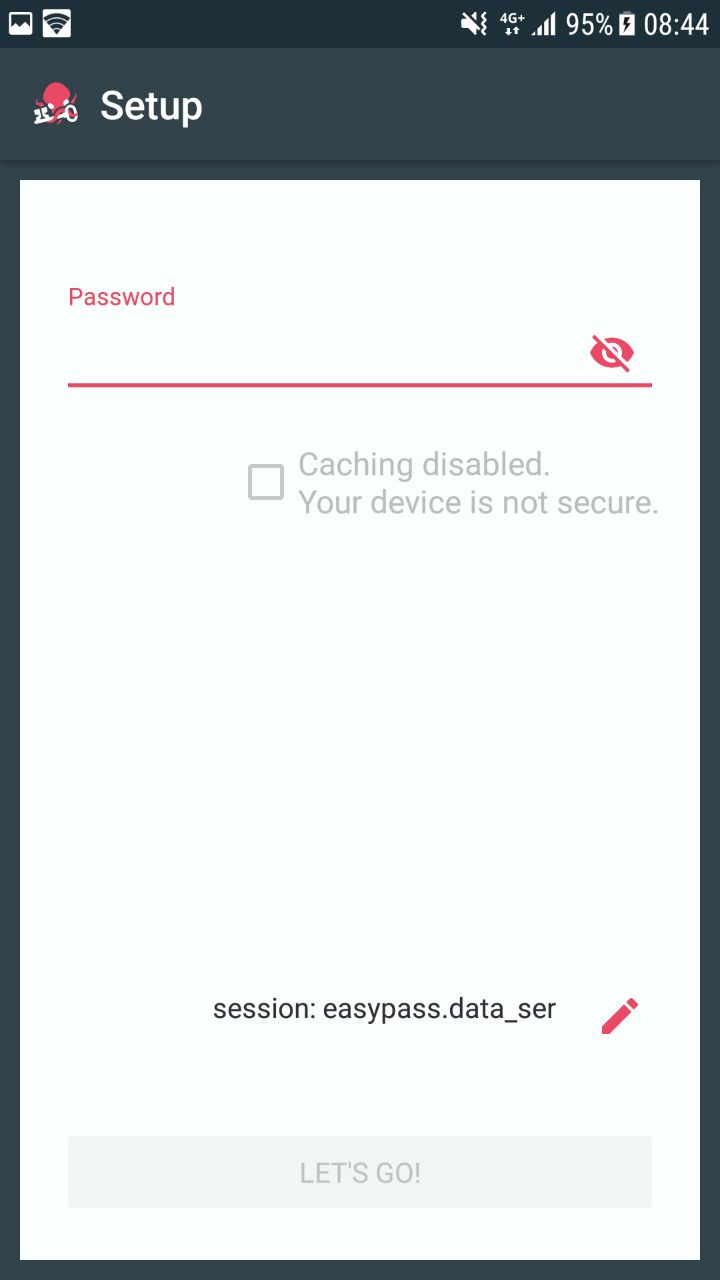
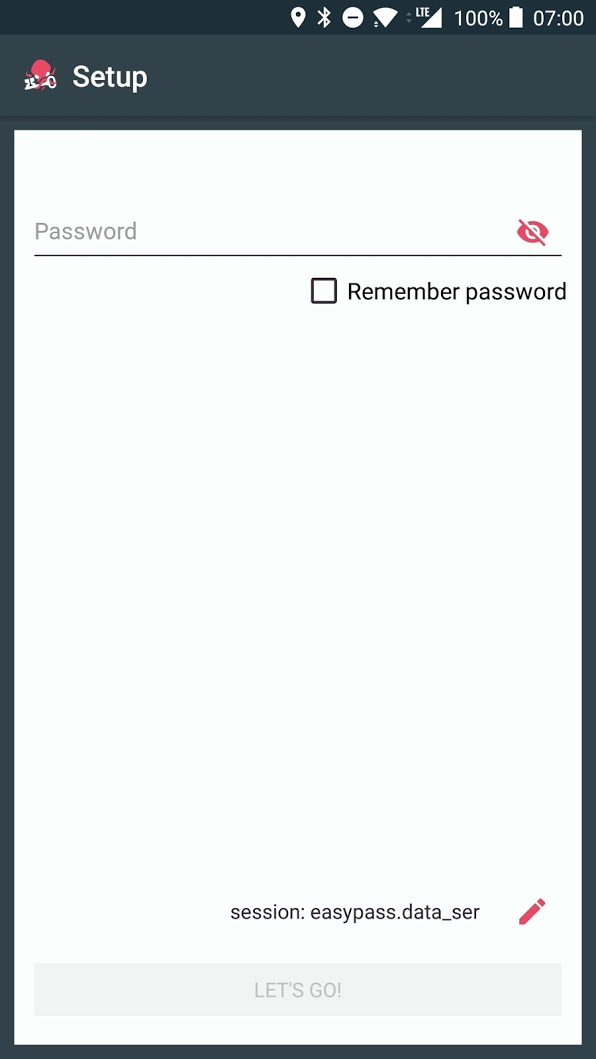
proof-read intro and presentation

diff --git a/parties/2-presentation.tex b/parties/2-presentation.tex
@@ -6,14 +6,20 @@
 Le but d'\easypass{} est de proposer un password manager indépendant de tout serveur externe ou outil particulier. Les mots de passe sont stockés dans un fichier au format JSON. Pour garantir la sécurité de ce dernier, celui-ci est chiffré à l'aide d'un mot de passe selon l'algorithme AES-128-CBC tel qu'implémenté par l'outil opensource OpenSSL. Il est donc possible d'éditer ou récupérer ses mots de passe à l'aide d'une ligne de commande quelconque. \\
 Les outils de la suite \easypass{} sont là pour offrir une couche \emph{user-friendly} à ce mécanisme de base. Ces outils se chargent de chiffrer/déchiffrer le fichier et d'en gérer le contenu (voir figure \ref{fig:schema-easypass}). 
 
-Puisque nous ne faisons que manipuler un fichier, ce dernier peut être synchronisé ou sauvegardé avec de nombreux outils: Google Drive, Dropbox, etc. Sur Android, nous avons rendu l'utilisation de Dropbox obligatoire, mais ce n'est pas le cas sur les versions desktop.
-Afin de rendre accessible le fichier depuis n'importe quel device, nous avons choisi de stocker le fichier sur Dropbox. 
+Puisque nous ne faisons que manipuler un fichier, ce dernier peut être synchronisé ou sauvegardé avec de nombreux outils: Google Drive, Dropbox, etc. Sur Android, nous avons rendu l'utilisation de Dropbox obligatoire, mais ce n'est pas le cas sur les versions desktop. La figure \ref{fig:schema-easypass} résume ce fonctionnement.
 
 \includeFigure{.8}{schema-easypass}{\easypass, architecture générale}
 
 \subsection{Algorithme de chiffrement}
 
-Le principe de \emph{password-based encryption} est de dériver une clé de chiffrement depuis un mot de passe fixe. La sécurité de cette méthode dépend alors de deux choses: a) la longueur du mot de passe, qui détermine également l'entropie de la clé générée, b) la PKDF (\emph{Password Key Derivation Function}), soit l'algorithme utilisé pour dériver une clé du mot de passe. Plus cette fonction prend du temps, plus une attaque brute-force deviendra difficile (manque de temps et de RAM).
+Les données sont chiffrées avec une clé symétrique de type AES 128 bits basée sur un \emph{master password}.
+
+Le principe de \emph{password-based encryption} est de dériver une clé de chiffrement depuis un mot de passe fixe. La sécurité de cette méthode dépend alors de deux choses: 
+\begin{itemize}
+    \item la longueur du mot de passe, qui détermine également l'entropie de la clé générée,
+    \item  la PKDF (\emph{Password Key Derivation Function}), soit l'algorithme utilisé pour dériver une clé du mot de passe.
+\end{itemize}
+Plus la fonction de dérivation prend du temps, plus une attaque brute-force deviendra difficile (manque de temps et de RAM).
 
 \easypass{} utilise un chiffrement qui correspond aux lignes de commande OpenSSL suivante\footnote{AES est notamment utilisé par le gouvernement américain pour chiffrer ses données top secrètes. Ils utilisent cependant la variante 256-bits. Nous utilisons encore 128-bits pour rester compatible avec les autres outils de la suite (mise à jour prévue).}:
 
@@ -36,9 +42,8 @@ Pour mieux comprendre les mécanismes derrière le chiffrement AES-CBC ainsi que
 
 \section{Application Android}
 
-fonctionnalités et captures aussi sur tablette !
-
-Au premier lancement de l'appliation, l'utilisateur doit configurer l'accès vers son compte dropbox voir Fig. \ref{fig:login-dropbox}. L'application peut en suite utiliser cet accès pour créer et sauver les sessions de l'utilisateur. Lors de la première utilisation de l'application, aucune session n'est trouvée voir Fig. \ref{fig:login-dropbox}. Par défaut, l'application mobile easypass propose à l'utilisateur de créer la session easypass.data\_ser. Elle sera chiffrée par le master password que l'utilisateur doit choisir à cet écran. La suite easypass permet à l'utilisateur de créer et de manipuler des sessions à travers d'autres outils. L'utilisateur peut choisir d'ouvrir un session  différente au même écran.
+Au premier lancement de l'application, une petite introduction présente les grands concepts d'\easypass{} (figure \ref{fig:intro}), puis l'utilisateur doit autoriser l'accès vers son compte Dropbox (figure \ref{fig:login-dropbox}).\\ 
+Par défaut, l'application ouvre la session \code{easypass.data\_ser}. Si ce fichier n'existe pas, l'application mobile propose à l'utilisateur de le créer en choisissant le \emph{master password} à utiliser (figure \ref{fig:choose-master-password-withkeyboard}). Ce dernier doit être de minimum trois charactères, mais le plus long est le mieux. À noter qu'il est aussi possible d'ouvrir ou de créer une session différente depuis ce même écran en appuyant sur le bouton d'édition en bas à droite du nom de session courant. Dans ce cas, l'application revient à l'écran de chargement et la nouvelle session devient automatiquement la session par défaut.
 
 \begin{center}
 	\begin{minipage}{.3\textwidth}
@@ -48,11 +53,11 @@ Au premier lancement de l'appliation, l'utilisateur doit configurer l'accès ver
 		\includeFigure{1}{login-dropbox}{} % Choisir un compte Dropbox.
 	\end{minipage}
 	\begin{minipage}{.3\textwidth}
-		\includeFigure{1}{choose-master-password}{} % Créer la session TODO mettre le nom de la session et le Master Password qui la chiffrera.
+		\includeFigure{1}{choose-master-password-withkeyboard}{} % Créer la session TODO mettre le nom de la session et le Master Password qui la chiffrera.
 	\end{minipage}        
 \end{center}
 
-A présent, si l'application est relancée, le master password est demandé afin de déchiffrer la session voir Fig. \ref{fig:login}. Le master password doit être compliqué afin de garantir la sécurité de l'application. Afin que l'utilisateur n'ait pas besoin de le rentrer à chaque utilisation, il est possible de le mettre en cache en cochant la case remember. L'utilisateur peut utiliser les méthodes d'authentifications fournies par Android (modèle, empreinte, etc). L'utilisateur peut choisir d'ouvrir une session différente. 
+A présent, si l'application est relancée (et que la session existe toujours), le \emph{master password} est demandé afin de déchiffrer le fichier (figure \ref{fig:login}). Le master password doit être compliqué afin de garantir la sécurité de l'application. Afin que l'utilisateur n'ait pas besoin de le rentrer à chaque utilisation, il est possible de le mettre en cache en cochant la case \emph{remember} (figure \ref{fig:login}). L'utilisateur pourra alors utiliser les méthodes d'authentifications fournies par Android (\emph{pattern}, empreinte, etc) à la place du mot de passe. À noter que cette option n'est disponible que sur un téléphone sécurisé: si le téléphone peut être déverouillé sans authentification (\emph{swipe}, \emph{slide up}, etc.), la case à cocher est désactivée (figure \ref{fig:login-no-remember}).
 
 \begin{center}
 	\begin{minipage}{.3\textwidth}
@@ -60,10 +65,13 @@ A présent, si l'application est relancée, le master password est demandé afin
 	\end{minipage}
 	\begin{minipage}{.3\textwidth}
 		\includeFigure{1}{login}{} % Ouvre la session TODO mettre le nom de la session (ou une autre session selectionée par l'utilisateur) à l'aide du Master Password.
+    \end{minipage}  
+    \begin{minipage}{.3\textwidth}
+		\includeFigure{1}{login-no-remember}{} % Ouvre la session TODO mettre le nom de la session (ou une autre session selectionée par l'utilisateur) à l'aide du Master Password.
 	\end{minipage}        
 \end{center}
 
-L'écran principal de l'application affiche la liste de tous les comptes de l'utilisateur voir Fig. \ref{fig:liste}. Ils sont répertoriés par un Nom unique. L'utilisateur peut ajouter un nouveau compte grâce au bouton flottant.Différentes informations peuvent être spécifiées au moment de la création du compte ainsi que le mot de passe. L'application \easypass{} propose également de générer un password aléatoire selon différents critères. 
+L'écran principal de l'application affiche la liste de tous les comptes de l'utilisateur (figure \ref{fig:liste}). Ils sont répertoriés par un nom unique. L'utilisateur peut ajouter un nouveau compte grâce au bouton flottant (\emph{fab}). Différentes informations peuvent être spécifiées au moment de la création du compte ainsi que le mot de passe. L'application \easypass{} propose également de générer un password aléatoire selon différents critères. 
 
 \begin{center}
 	\begin{minipage}{.3\textwidth}
@@ -77,7 +85,11 @@ L'écran principal de l'application affiche la liste de tous les comptes de l'ut
 	\end{minipage}        
 \end{center}
 
-La compte créé apparaît maintenant dans la liste des comptes voir Fig. \ref{fig:liste}. Lorsque l'utilisateur sélectionne un compte de la liste un pannel propose différentes actions. Différents raccourcis permettent à l'utilisateur de copier les informations principales du compte sans l'ouvrir (Password, Username, Email) voir Fig. \ref{fig:liste-edition}. Un autre raccourcis permet d'afficher le mot de passe sauvé et de le copier voir Fig. \ref{fig:password-shortcut}. 
+La compte créé apparaît maintenant dans la liste des comptes (figure \ref{fig:liste}). 
+
+Lorsque l'utilisateur clique sur un compte de la liste, un pannel propose différentes actions (figure \ref{fig:liste-edition}). Des raccourcis permettent à l'utilisateur de copier les informations principales du compte sans l'ouvrir (Password, Username, Email). Un autre raccourcis permet d'afficher le mot de passe sauvé (figure \ref{fig:password-shortcut}). 
+
+Depuis ce pannel, l'utilisateur peut accéder à un nouvel écran et voir ou éditer les détails du compte sélectionné. Il est également possible d'afficher les détails du compte en cliquant longtemps sur un compte de la liste.
 
 \begin{center}
 	\begin{minipage}{.3\textwidth}
@@ -91,7 +103,7 @@ La compte créé apparaît maintenant dans la liste des comptes voir Fig. \ref{f
 	\end{minipage}        
 \end{center}
 
-Depuis ce pannel, l'utilisateur peut accéder à un nouvel écran et voir ou éditer les détails du compte sélectionné. Il est également possible d'afficher les détails du compte avec en cliquant longtemps sur un compte de la liste.
+
 
 \begin{center}
 	\begin{minipage}{.3\textwidth}
@@ -102,7 +114,7 @@ Depuis ce pannel, l'utilisateur peut accéder à un nouvel écran et voir ou éd
 	\end{minipage}        
 \end{center}
 
-Finalement l'utilisateur peut encore supprimer un compte depuis la liste principale. En faisant glisser le compte sur la gauche voir Fig. \ref{fig:delete}. Si un compte est supprimé ou modifié, il est possible de revenir en arrière en cliquant sur le bouton Undo voir Fig. \ref{fig:undo}.
+Finalement l'utilisateur peut encore supprimer un compte depuis la liste principale en faisant glisser le compte sur la gauche (figure \ref{fig:delete}). Si un compte est supprimé ou modifié, il est possible de revenir en arrière en cliquant sur le bouton Undo affiché sur la snackbar qui apparait en-bas de l'écran (figure \ref{fig:undo}).
 
 \begin{center}
 	\begin{minipage}{.3\textwidth}
@@ -113,7 +125,9 @@ Finalement l'utilisateur peut encore supprimer un compte depuis la liste princip
 	\end{minipage}        
 \end{center}
 
-L'utilisateur peut modifier l'affichage de la liste principale pour trouver plus rapidement les comptes qu'ils cherchent. La liste principale peut être triée par nom ou date de création voir Fig. \ref{fig:tri}. Une fonction de recherche est également proposée pour retrouver un compte par son nom, son username ou son email voir Fig. \ref{fig:search}. L'utilisateur peut choisir ses comptes favoris. Ils apparaîtront en haut de la liste. Les comptes favoris sont sauvés dans la session.
+L'utilisateur peut modifier l'affichage de la liste principale pour trouver plus rapidement les comptes qu'il cherche. La liste principale peut être triée par nom ou date de création (figure \ref{fig:tri}). Une fonction de recherche est également proposée pour retrouver un compte par un mot-clé (figure \ref{fig:search}). La recherche est effectuée dans tous les champs sauf le mot de passe. 
+
+L'utilisateur peut également marquer des comptes comme favoris (\emph{pinning}). Ils apparaîtront alors systématiquement en haut de la liste. Les comptes favoris sont sauvés dans la session.
 
 \begin{center}
 	\begin{minipage}{.3\textwidth}
@@ -124,7 +138,7 @@ L'utilisateur peut modifier l'affichage de la liste principale pour trouver plus
 	\end{minipage}
 \end{center}
 
-La session ouverte dans l'application est toujours synchronisée avec Dropbox. Dans le cas où le téléphone n'a plus accès à internet, une copie de la session est conservée en locale avec la dernière synchronisation. L'écran d'accueil propose de charger le fichier local voir Fig. \ref{fig:local-file}. Une icône rouge indique que l'application n'est pas connectée à internet voir Fig. \ref{fig:no-network}. L'application peut ainsi afficher les comptes mais sans les éditer voir Fig. \ref{fig:edition-disabled}.
+La session ouverte dans l'application est toujours synchronisée avec Dropbox. Dans le cas où le téléphone n'a plus accès à internet, une copie de la session est conservée en local avec la dernière synchronisation. L'écran d'accueil propose de charger le fichier local (figure \ref{fig:local-file}). Une icône rouge indique que l'application n'est pas connectée à internet (figure \ref{fig:no-network}). L'application peut ainsi afficher les comptes mais sans les éditer (figure \ref{fig:edition-disabled}). 
 
 \begin{center}
 	\begin{minipage}{.3\textwidth}
@@ -140,9 +154,18 @@ La session ouverte dans l'application est toujours synchronisée avec Dropbox. D
 
 La suite \easypass{} permet de manipuler la session à travers plusieurs applications (Application Java, Ligne de commande, Application mobile). Dans le cas où la session serait modifiée par un autre programme. L'utilisateur peut forcer la synchronisation afin de récupérer les dernières modifications. Cette action est possible grâce au bouton sync voir Fig. \ref{fig:sync}.
 
-\includeFigure{.3}{sync}{} % Force la synchronisation de la session locale avec la session sauvée sur Dropbox.
+\begin{center}
+    \begin{minipage}{.3\textwidth}
+        \includeFigure{1}{sync}{} % Sync button quand réseau à nouveau up
+    \end{minipage}        
+	\begin{minipage}{.3\textwidth}
+		\includeFigure{1}{auto-sync}{} % Force la synchronisation de la session locale avec la session sauvée sur Dropbox.
+	\end{minipage}
+\end{center}
 
-Les paramètres généraux de l'application peuvent être atteint depuis l'écran principale de l'application  voir Fig. \ref{fig:settings}. 
+Si le téléphone n'a pas de connectivité et que le réseau revient \easypass{} vérifie automatiquement que la session affichée est toujours à jour. Dans le cas contraire, un bouton apparait proposant à l'utilisateur de recharger la session avec la dernière version (figure \ref{fig:auto-sync}).
+
+Les paramètres généraux de l'application peuvent être atteint depuis l'écran principale de l'application  (figure \ref{fig:settings}). 
 
 \begin{center}
 	\begin{minipage}{.3\textwidth}
@@ -158,13 +181,23 @@ Les paramètres généraux de l'application peuvent être atteint depuis l'écra
 
 Parmis les actions possibles, l'utilisateur peut :
 \begin{itemize}
-	\item Personnaliser la liste de caractères spéciaux utilisés lors de la génération du mot de passe voir Fig. \ref{fig:custom-liste}.
-	\item Modifier le master password de la session chargée  Fig. \ref{fig:new-password}.
-	\item Retirer le master password du cache.
-	\item Ouvrir l'application à nouveau avec une autre session.
-	\item Oublier l'accès au compte Dropbox de l'utilisateur.
-	\item Effacer le cache de l'application. Notamment la session local utilisé pour faire fonctionner l'application quand le téléphone n'a pas accès au réseau.
+	\item Personnaliser la liste de caractères spéciaux utilisés lors de la génération du mot de passe (figure \ref{fig:custom-liste});
+	\item Modifier le \emph{master password} de la session chargée (figure \ref{fig:new-password});
+	\item Retirer le \emph{master password} du cache;
+	\item Ouvrir l'application à nouveau avec une autre session;
+	\item Oublier l'accès au compte Dropbox de l'utilisateur;
+	\item Effacer le cache de l'application, notamment la session locale utilisé pour faire fonctionner l'application quand le téléphone n'a pas accès au réseau.
 \end{itemize}
+
+L'application est sécurisée: il n'est pas possible de faire de captures d'écran ou de prévisualiser le contenu de l'application dans la liste des applications récentes (\emph{recents}).
+
+
+Finalement, l'application est également adaptée pour tablettes en mode paysage: la liste principale ainsi que les écrans de détail/éditions sont affichés côte-à-côte, en mode \emph{two panes} (figure \ref{fig:tablet-list}); les écrans de démarrage et de paramètres ont une largeur limitée (figure \ref{fig:tablet-setup}). Le comportement de l'application est le même, excepté une chose: en mode paysage, le panel de raccourcis n'est pas disponible; pour copier une information ou voir le mot de passe, il faut utiliser les fonctions \emph{built-in} d'Android.
+
+
+\includeFigure{.8}{tablet-setup}{} % tablette
+\includeFigure{.8}{tablet-list}{} % tablette
+
 
 % exemple de référence
 % blabla (see Figure \ref{fig:login}) blabla.

diff --git a/parties/3-implementation.tex b/parties/3-implementation.tex
@@ -5,7 +5,7 @@ L'application \easypass{} fut développée en Kotlin (version 1.1.60).
 
 \section{Composants et structure du projet}
 
-L'application est composée de six activités (voir figure \ref{fig:app-structure}). Les deux activités principales sont l'activité présentant la liste des comptes (\code{AccountListActivity}) et l'activité (\code{AccountDetailActivity}) permettant de manipuler un compte (pas utilisée sur tablette). 
+L'application est composée de six activités (voir figure \ref{fig:app-structure}). Les deux activités principales sont l'activité présentant la liste des comptes (\code{AccountListActivity}) et l'activité permettant de manipuler un compte (\code{AccountDetailActivity}, pas utilisée sur tablette). 
 % Sur tablette, \code{AccountListActivity} comprend les fragments de manipulation d'un compte (\emph{two panes}, \code{AccountDetailActivity} n'est pas utilisé).
 
 Nous avons utilisé des fragments dans deux cas: a) dans la \code{LoadingSessionActivity}, où chaque fragment représente une vue dans un \emph{wizard}, b) dans les vues principales afin de pouvoir créer une interface \emph{two-panes} sur tablette.
@@ -342,13 +342,13 @@ Preferences().revision = null
 
 \paragraph*{lazyness} Le client Dropbox dans \code{DbxManager} est défini comme \emph{lazy}. Cela permet de l'instancier uniquement lors du premier usage:
 
-\begin{kotlincode}
+\begin{minted}{kotlin}
 val client: DbxClientV2 by lazy {
     val token = Preferences(App.appContext).dbxAccessToken
     val config = DbxRequestConfig.newBuilder("Easypass/2.0").build()
     DbxClientV2(config, token)
 }
-\end{kotlincode}
+\end{minted}
 
 %\subsection{Timber}
 
@@ -370,7 +370,7 @@ Les styles et couleurs en Android peuvent se gérer un peu à la manière du CSS
 
 \paragraph*{Couleurs} Les couleurs principales (notamment \code{colorPrimary}, \code{colorPrimaryDark} et \code{colorAccent}) sont définies dans le style principal. Il est aussi possible de changer la couleur du texte et du background, ainsi que les effets \emph{ripple}. Pour certains attributs, il est nécessaire de préfixer le nom de l'item par \code{android:} pour que cela soit pris en compte.
 
-\begin{xmlcode}
+\begin{minted}{xml}
 <style name="AppTheme" parent="Theme.AppCompat.Light.DarkActionBar">
     <!-- Main colors -->
     <item name="colorPrimary">@color/colorDarkGrey</item>
@@ -385,19 +385,71 @@ Les styles et couleurs en Android peuvent se gérer un peu à la manière du CSS
 
     <!-- ... etc. ... -->
 </style>
+\end{minted}
+
+\paragraph*{Références} Pour se référer à une couleur depuis un layout, nous avons systématiquement utilisé une référence. Une référence est déclarée avec la syntaxe \code{?attr} ou \code{?android:attr} (selon qui l'a définie) et permet notamment d'éviter de noter en dur des couleurs. L'avantage est que nous pouvons à tout moment décider de changer les couleurs principales dans le fichier \code{style} et toutes les interfaces seront mises à jour automatiquement.
+
+\paragraph*{Difficultés} Modifier le style peut avoir des effets indésirables, comme \emph{écraser} des comportements par défaut. Il faut alors un certain temps avant de trouver le moyen de le rétablir. 
+
+Par exemple, nous avons utilisé des lignes en gradient à plusieurs endroits de l'application. Il n'y a pas de moyen simple de créer une bordure en Android, il faut créer une \emph{shape} en xml qui peut ensuite être utilisée en fond\footnote{Voir \code{res/drawable/bottom\_border\_gradient.xml}}. Cependant, lorsqu'on ajoute un fond à un élément interactif (boutons, etc.), on \guillemets{écrase} l'effet \emph{ripple}. La solution est de réappliquer l'effet \emph{ripple} au \emph{foreground}:
+
+\begin{xmlcode}
+<Button 
+    android:background="@drawable/bottom_border_gradient"
+    android:foreground="?android:attr/selectableItemBackgroundBorderless" />
 \end{xmlcode}
 
-\paragraph*{Références} Pour se référer à une couleur depuis un layout, nous avons systématiquement utilisé une référence. Une référence est déclarée avec la syntaxe \code{?attr} ou \code{?android:attr} et permet notamment d'éviter de noter en dur des couleurs. L'avantage est que nous pouvons à tout moment décider de changer les couleurs principales dans le fichier \code{style} et toutes les interfaces seront mises à jour automatiquement.
+Un autre exemple est lorsqu'on veut changer la couleur d'un bouton ayant le style \code{Widget.AppCompat .Button.Borderless.Colored}. Cela modifie la couleur du bouton dans tous ses états; il n'est donc plus grisé quand \code{enabled=false}. La solution est de spécifier la couleur du texte dans un xml qui prend en compte l'état du bouton\footnote{On parle alors de \emph{state selector}, voir notamment \code{res/color/btn\_text\_color.xml}.}.
 
 \section{Autre}
 
-\subsection{BottomSheet}
 
-\subsection{SwipeToDelete}
+\subsection{Librairies}
+
+Outre les librairies citées dans les sections précédantes, nous avons utilisé \emph{AppIntro} et \emph{Timber}.
+
+\emph{AppIntro}\footnote{\url{https://github.com/apl-devs/AppIntro}} permet de créer très facilement des slides d'introduction suivant le thème Material Design. 
+
+\emph{Timber}\footnote{\url{https://github.com/JakeWharton/timber}.} est une librairie de logging très légère qui est à la fois extensible et très modulable. Son premier avantage est qu'il n'est pas nécessaire de lui passer un \code{TAG}; elle utilise par défaut le nom de la classe. Sans entrer dans les détails, nous avons configuré \emph{timber} (voir \code{App\#onCreate}) afin de ne loguer qu'en mode \emph{debug} et d'ajouter un string unique (\emph{lucy}) et le numéro de ligne dans le \emph{tag}. 
+
+\begin{kotlincode}
+if (BuildConfig.DEBUG) {
+    Timber.plant(object : DebugTree() {
+        override fun createStackElementTag(element: StackTraceElement): String? =
+
+        "lucy:${super.createStackElementTag(element)}:${element.lineNumber}"
+    })
+    Timber.v("initialised Timber in debug mode")
+}
+\end{kotlincode}    
 
 \subsection{Support tablette}
 
-\subsection{Slides d'introduction}
+Nous avons fait en sorte que l'application soit utilisable sur tablette selon le principe du \emph{split pane}. Pour cela, l'édition et la visualisation des détails sont gérés par des fragments ajoutés soit à l'activité principale (\code{AccountListActivity}, mode tablette), soit à une activité dédiée (\code{AccountDetailActivity}, mode smartphone). 
+
+En mode tablette, les \emph{bottom sheet} ne sont pas très agréables. Nous avons donc ajouté des boutons pour les actions principales et supprimé complètement les \emph{quick actions}: pour copier une information, il est nécessaire de sélectionner le texte désiré. 
+
+Certains écrans, notamment l'écran de \emph{setup} et l'écran des \emph{settings}, ne sont pas très jolis en plein écran. Pour limiter la largeur d'un élément de layout, nous avons utilisé les styles\footnote{\code{ConstraintLayout} permettrait de faire la même chose plus simplement, mais nos containers sont déclarés dans un \code{CoordinatorLayout} afin de gérer l'appBar et le fab...}. Le fichier style par défaut déclare un style \code{LayoutMaxWidth} qui définit un \code{layout\_width} de la taille du parent, tandis que le fichier style dédié aux devices d'une largeur de 900dp ou plus limite la largeur à 500dp:
+
+\begin{xmlcode}
+<!-- in res/values/styles.xml -->
+<style name="LayoutWithMaxWidth">
+    <item name="android:layout_width">match_parent</item>
+</style>
+
+<!-- in res/values-w900dp/styles.xml -->
+<style name="LayoutWithMaxWidth">
+    <item name="android:layout_width">500dp</item>
+</style>
+\end{xmlcode}
+
+Il suffit alors d'appliquer ce style à un container pour que sa largeur soit limitée sur tablette.
+
+\subsection{Animation des listes}
+
+
+%\subsection{SwipeToDelete}
+
 % \paragraph*{Autre} Pour appliquer un style particulier à un élément du layout, on peut utiliser l'attribut \code{style}. Si le but est uniquement de changer le style du texte, il est préférable d'utiliser \code{android:textAppearance="..style.."}. 
 
 

diff --git a/parties/1-introduction.tex b/parties/1-introduction.tex
@@ -8,7 +8,7 @@ Ce rapport présente l'application Android \easypass{} conçue dans le cadre du 
 
 Tout comme ses concurrents (\emph{LastPass}, etc.), il permet de stocker de manière sécurisée ses mots de passe et de les consulter depuis n'importe où au moyen d'un unique \emph{Master Password}. L'originalité et l'avantage d'\easypass{{} repose dans la manière dont il stocke les informations. 
 
-\includeFigure{1}{intro}{Slides présentés au lancement de l'application.}
+\includeFigure{1}{intro}{Slides présentés au lancement de l'application. Un gradient de couleurs apparait lors du swipe.}
 
 \emph{LastPass} par exemple possède ses propres serveurs, tandis que d'autres ont opté pour un stockage local, sur l'ordinateur de l'utilisateur. Dans le premier cas, il est nécessaire d'avoir une confiance totale dans les serveurs du service. Dans le second cas, un accident et nous perdons nos mots de passe (à moins de maitriser l'art de la sauvegarde, ce qui n'est pas si courant).
 
